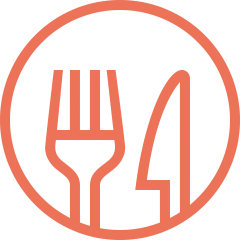
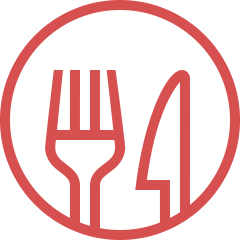
function changes

Changed region(s): [[0.0, 0.0, 1.0, 1.0]]

diff --git a/food.js b/food.js
@@ -58,12 +58,23 @@ async function searchIngredients() {
     list = list.join(',+');
     const response = await fetch('https://api.spoonacular.com/recipes/findByIngredients?ingredients=' + list + '&apiKey=8fbf4a5632344fb892b407647dfdf419');
     const data = await response.json();
-    if (data.length === 0) {
-        document.getElementById('loading').style.display = 'none';
-        document.getElementById('error').style.display = 'flex';
-    }
     if (document.getElementById('recipe-grid')) {
         document.getElementById('recipe-grid').innerHTML = '';
+    }
+    if (data.length === 0) {
+        document.getElementById('loading').style.display = 'none';
+        let err = document.createElement('h2');
+        err_message = document.createTextNode('Opps Something Went Wring :/ Possible Spelling Error?');
+        err.appendChild(err_message);
+        document.getElementById('error').appendChild(err);
+        document.getElementById('error').style.display = 'flex';
+    } else if (response.status == 402) {
+        document.getElementById('loading').style.display = 'none';
+        let err = document.createElement('h2');
+        err_message = document.createTextNode('API Call Limit Reached, Please Try Again Later. Thank You!');
+        err.appendChild(err_message);
+        document.getElementById('error').appendChild(err);
+        document.getElementById('error').style.display = 'flex';
     }
     for (let i = 1; i <= data.length; i++) {
         const test_resp = await fetch(' https://api.spoonacular.com/recipes/' + data[i - 1].id + '/information?includeNutrition=false&apiKey=8fbf4a5632344fb892b407647dfdf419');
@@ -71,6 +82,7 @@ async function searchIngredients() {
         createPage(i, test_data);
         isLoading(i);
     }
+
     return data;
 }
 
@@ -84,12 +96,23 @@ async function searchRecipe() {
     var food = document.getElementById('ingredients').value;
     const response = await fetch('https://api.spoonacular.com/recipes/search?query=' + food + '&apiKey=8fbf4a5632344fb892b407647dfdf419');
     const data = await response.json();
-    if (data.results.length === 0) {
-        document.getElementById('loading').style.display = 'none';
-        document.getElementById('error').style.display = 'flex';
-    }
     if (document.getElementById('recipe-grid')) {
         document.getElementById('recipe-grid').innerHTML = '';
+    }
+    if (data.length === 0) {
+        document.getElementById('loading').style.display = 'none';
+        let err = document.createElement('h2');
+        err_message = document.createTextNode('Opps Something Went Wring :/ Possible Spelling Error?');
+        err.appendChild(err_message);
+        document.getElementById('error').appendChild(err);
+        document.getElementById('error').style.display = 'flex';
+    } else if (response.status == 402) {
+        document.getElementById('loading').style.display = 'none';
+        let err = document.createElement('h2');
+        err_message = document.createTextNode('API Call Limit Reached, Please Try Again Later. Thank You!');
+        err.appendChild(err_message);
+        document.getElementById('error').appendChild(err);
+        document.getElementById('error').style.display = 'flex';
     }
     for (let i = 1; i <= data.results.length; i++) {
         const test_resp = await fetch(' https://api.spoonacular.com/recipes/' + data.results[i - 1].id + '/information?includeNutrition=false&apiKey=8fbf4a5632344fb892b407647dfdf419');

diff --git a/food-mobile.css b/food-mobile.css
@@ -26,7 +26,7 @@ body {
 }
 #error{
     display: none;
-    margin-top: 5%;
+    margin-top: 1%;
 }
 #title h1{
     font-size: 3em;
@@ -73,7 +73,7 @@ select {
     -webkit-appearance: none;
     padding: 10px;
     border: none;
-    background-color: #EC7357;
+    background-color: #D65050;
     box-shadow: 0 8px 16px 0 rgba(0,0,0,0.2), 0 6px 20px 0 rgba(0,0,0,0.19);
     color: #fff;
     font-weight: 600;
@@ -88,7 +88,7 @@ select {
 .recipe-container img{
     height: 40%;
     width: 70%;
-    border: solid #EC7357 3px;
+    border: solid #D65050 3px;
     border-radius: 50px;
     display: block;
     margin: 5% auto auto auto;
@@ -106,6 +106,9 @@ box-shadow:  20px 20px 60px #d9cd74,
              -20px -20px 60px #ffff9e;
     justify-self: center;
 }
+.recipe-container a{
+    color: #D65050;
+}
 .row{
     margin-bottom:5%;
 }
@@ -119,4 +122,5 @@ box-shadow:  20px 20px 60px #d9cd74,
     text-decoration: none;
     font-size: 1.6em;
     text-align: center;
+    font-weight: 700;
 }

diff --git a/index.html b/index.html
@@ -1,5 +1,5 @@
-<!DOCTYPE html>
-
+<!DOCTYPE html>>
+<html lang="en" dir="ltr">
 <head>
     <meta charset="utf-8">
     <meta http-equiv="X-UA-Compatible" content="IE=edge">
@@ -53,10 +53,8 @@
             <div class="spinner-border"></div>
             <h1>Analyzing Taste Buds...</h1>
         </div>
-        <div class='row' id='error'>
-            <div class='col d-flex justify-content-center'>
-                <h2>Oops Something Went Wrong :/ Please Try Again </h2>
-            </div>
+        <div class='row'>
+            <div  id='error' class='col d-flex justify-content-center'></div>
         </div>
         <div id='recipe-grid' class='container'></div>
     </div>
